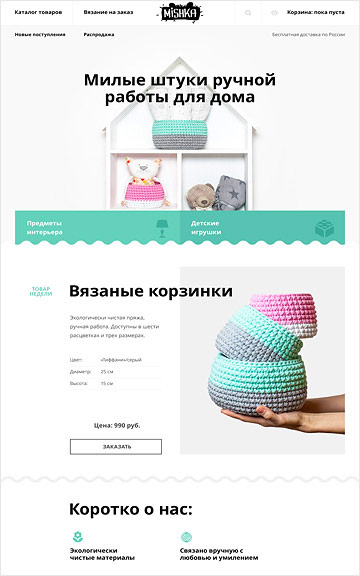
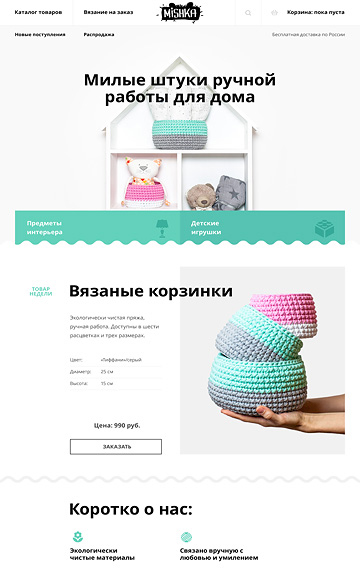
#35 Завершаем вёрстку личного проекта

diff --git a/css/style.css b/css/style.css
@@ -77,6 +77,14 @@ b {
 	margin-right: 200px;
 }
 
+.logo:hover {
+	opacity: 0.8;
+}
+
+.logo:active {
+	opacity: 0.3;
+}
+
 .main-navigation {
 	display: inline-block;
 	float: left;
@@ -292,7 +300,12 @@ b {
  .catalog-item-head {
  	border-radius: 3px 3px 0 0;
  	min-height: 40px;
- 	background-color: #e9e9e9;
+ 	background-color: #000;
+ 	/*background-color: #e9e9e9;*/
+ }
+
+ .catalog-item:hover .catalog-item-head {
+ 	background-color: #4d4d4d;
  }
 
 .catalog-item-content a:first-child {
@@ -369,9 +382,19 @@ b {
 	vertical-align: top;
 	text-align: center;
 	box-sizing: border-box;
-	background-color: #dbdbdb;
+	background-color: #eee;
 	color: #000;
-	/*cursor: pointer;*/
+	border-radius: 3px;
+}
+
+.pagination li:hover {
+	background-color: #dfdfdf;
+}
+
+.pagination li:active {
+	background-color: #d5d5d5;
+	box-shadow: inset 0 3px 0 rgba(0, 0, 0, 0.1);
+	opacity: .6;
 }
 
 .pagination li:first-child {
@@ -484,6 +507,15 @@ td {
 .partners a {
 	margin-left: 45px;
 	margin-right: 45px;
+	opacity: 0.2;
+}
+
+.partners a:hover {
+	opacity: 1;
+}
+
+.partners a:active {
+	opacity: 0.1;
 }
 
 .partners a:first-child {
@@ -656,19 +688,128 @@ footer {
 /***	КНОПКА   ***/
 
 .contacts-popup {
-	position: fixed;
-    display: none;
-    width: 960px;
-    max-height: 590px;
+    position: fixed;
+    /*display: none;*/
+    width: 760px;
     top: 50%;
     left: 50%;
-    margin-top: -205px;
-    margin-left: -490px;
-    padding-top: 100px;
-    padding-left: 50px;
-    padding-right: 50px;
-    padding-bottom: 100px;
-    box-shadow: 0 20px 40px 0 rgba(0, 1, 1, .75);
+    margin-top: -300px;
+    margin-left: -481px;
+    padding-top: 67px;
+    padding-left: 100px;
+    padding-right: 100px;
+    padding-bottom: 85px;
+    box-shadow: 0 15px 50px 0 rgba(0, 1, 1, .75);
     background: white;
-    z-index: 100;
+    z-index: 1000;
 }
+
+.contacts-popup-title {
+	display: inline-block;
+	float: left;
+	line-height: 45px;
+	font-size: 45px;
+	margin-bottom: 40px;
+}
+
+.popup-part:first-child {
+	float: left;
+}
+
+.popup-part:last-child {
+    float: right;
+}
+
+.popup-part input {
+    width: 326px;
+}
+
+.popup-row input,
+.popup-row textarea {
+	line-height: 18px;
+	font-size: 16px;
+    padding: 14px 15px;
+    border: 2px solid #d7dcde;
+    border-radius: 4px;
+    outline: none;
+    color: #d7dcde;
+}
+
+.popup-row textarea {
+    padding-bottom: 15px;
+    width: 726px;
+    height: 85px;
+    max-width: 726px;
+    max-height: 85px;
+
+}
+
+.popup-row input:hover,
+.popup-row textarea:hover {
+    border: 2px solid #b4b9bb;
+    border-radius: 4px;
+    color: #b4b9bb;
+}
+
+.popup-row input:focus,
+.popup-row textarea:focus {
+    border: 2px solid #000;
+    border-radius: 4px;
+    color: #000;
+}
+
+.popup-row input:invalid,
+.popup-row textarea:invalid {
+    border: 2px solid #e74246;
+    border-radius: 4px;
+    color: #e74246;
+}
+
+.contacts-form label {
+	display: block;
+    margin-bottom: 11px;
+    font-size: 16px;
+    line-height: 18px;
+    font-weight: bold;
+}
+
+.popup-row {
+    margin-bottom: 33px;
+}
+
+.popup-row:last-child {
+	margin-bottom: 0;
+}
+
+
+.contacts-form .btn {
+	margin-top: 9px;
+	padding: 15px 81px;
+    float: left;
+}
+
+
+.contacts-popup-close {
+    display: block;
+    float: right;
+    margin-right: -20px;
+    margin-top: 3px;
+    width: 40px;
+    height: 40px;
+    background: url("../img/close-cross.png") no-repeat center;
+    border-radius: 50%;
+    text-decoration: none;
+}
+
+.contacts-form {
+	clear: both;
+}
+
+.contacts-popup-close:hover{
+	opacity: 0.3;
+}
+
+.contacts-popup-close:active{
+	opacity: 0.1;
+}
+

diff --git a/catalog.html b/catalog.html
@@ -207,19 +207,19 @@
 			<b class="contacts-popup-title">Напишите нам</b>
 			<a href="#" class="contacts-popup-close"></a>
 			<form class="contacts-form" action="/echo" method="post">
-				<div class="popup-row">
+				<div class="popup-row clearfix">
 					<div class="popup-part">
 						<label for="name">Ваше имя:</label>
-						<input type="text" name="name" id="name" placeholder="Name">
+						<input type="text" name="name" id="name" placeholder="Представьтесь, пожалуйста">
 					</div>
 					<div class="popup-part">
 						<label for="email">Ваш e-mail:</label>
-						<input type="text" name="email" id="email" placeholder="E-mail">
+						<input type="email" name="email" id="email" placeholder="Для отправки ответа">
 					</div>
 				</div>
 				<div class="popup-row">
 					<label for="message">Текст письма:</label>
-					<textarea name="message" id="message" placeholder="Message"></textarea>
+					<textarea name="message" id="message" placeholder="В свободной форме"></textarea>
 				</div>
 				<button class="btn" type="submit">Отправить</button>
 			</form>
